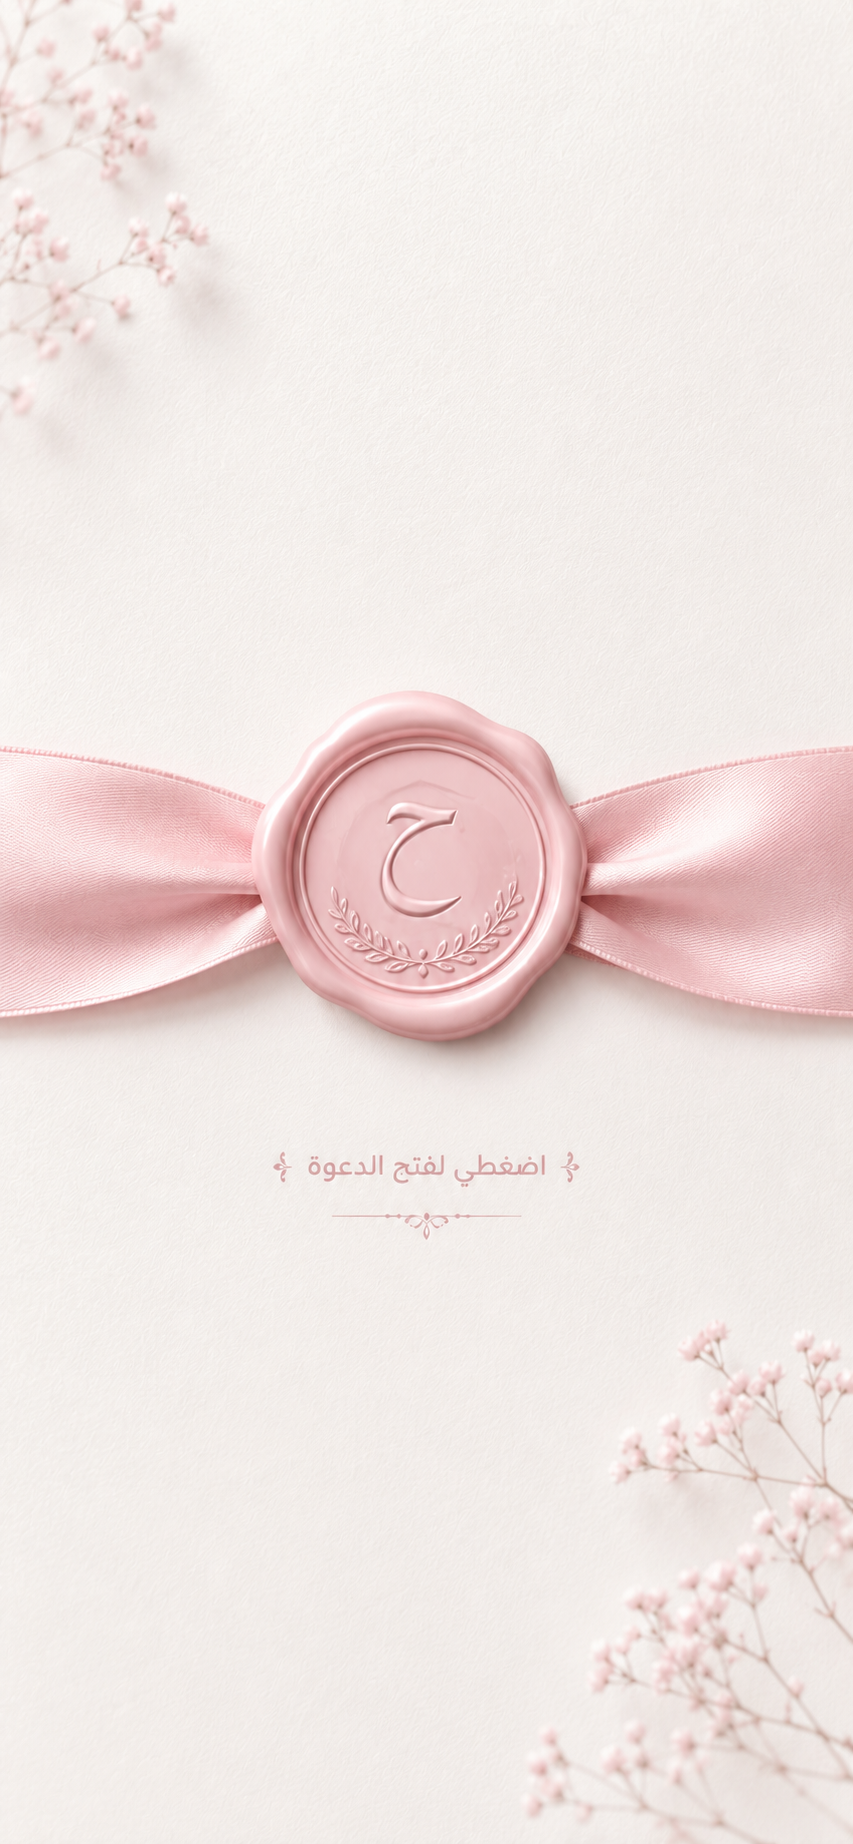
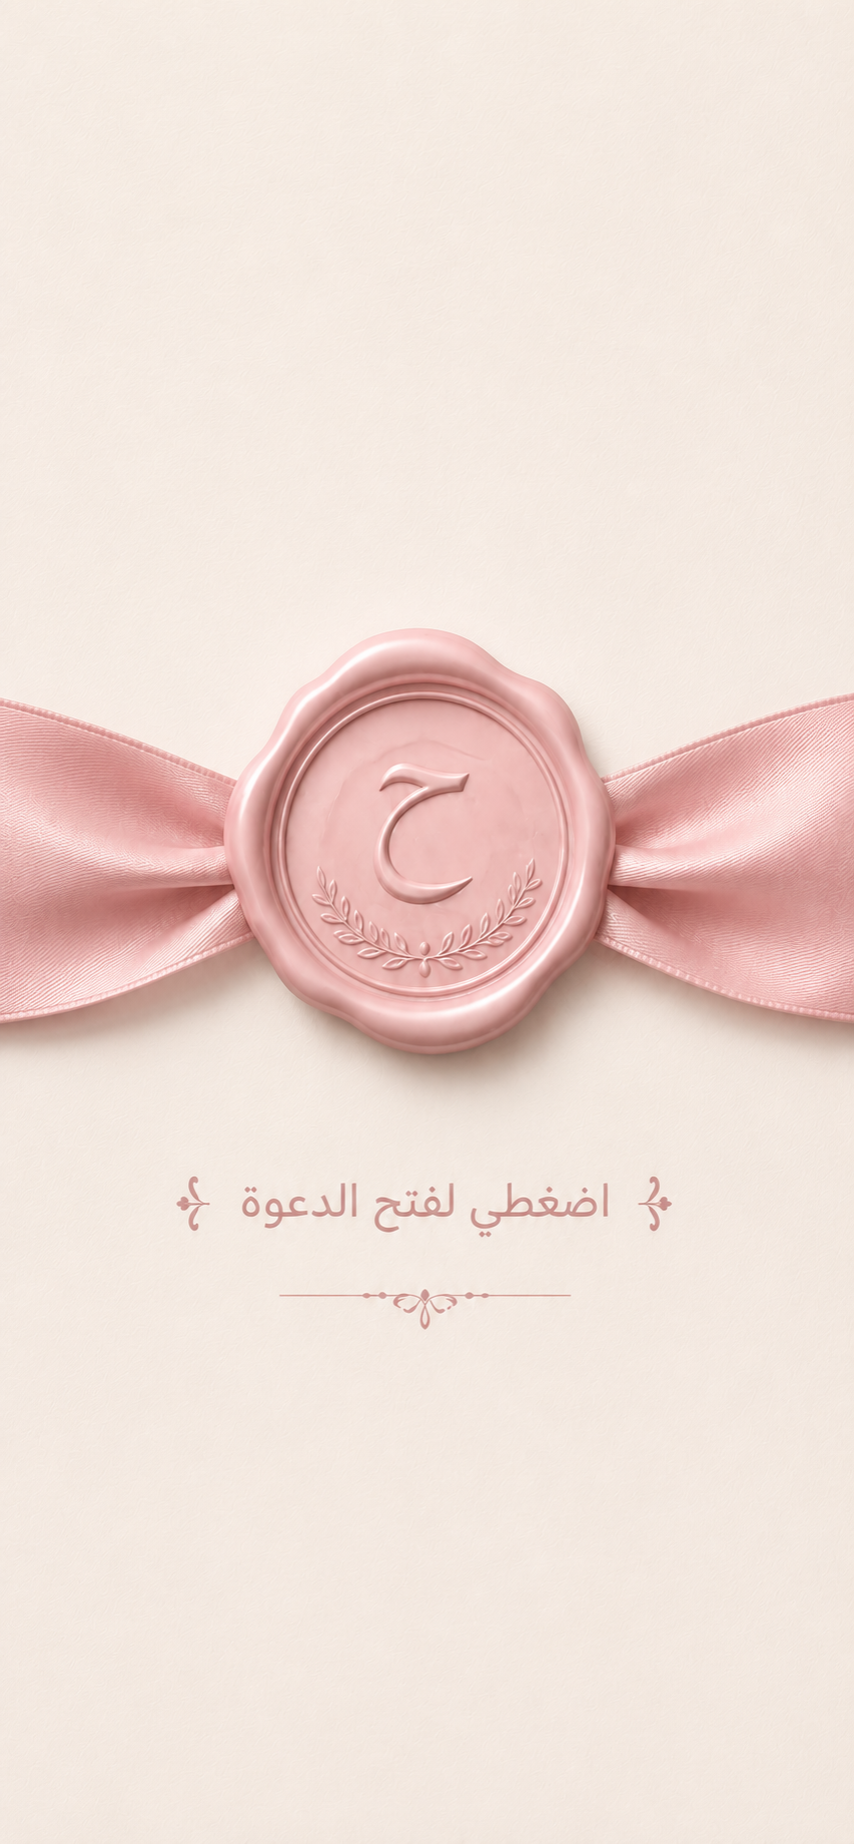
Update first invitation cover image and refresh landing page
- Replace cover image (imges/img.png) with new version
- Add ?v=2 cache-busting param to force browser refresh of new image

diff --git a/index.html b/index.html
@@ -1067,7 +1067,7 @@
 
     <img
       id="cover-img"
-      src="imges/img.png"
+      src="imges/img.png?v=2"
       alt="دعوة تخرج حور"
       draggable="false"
     />
